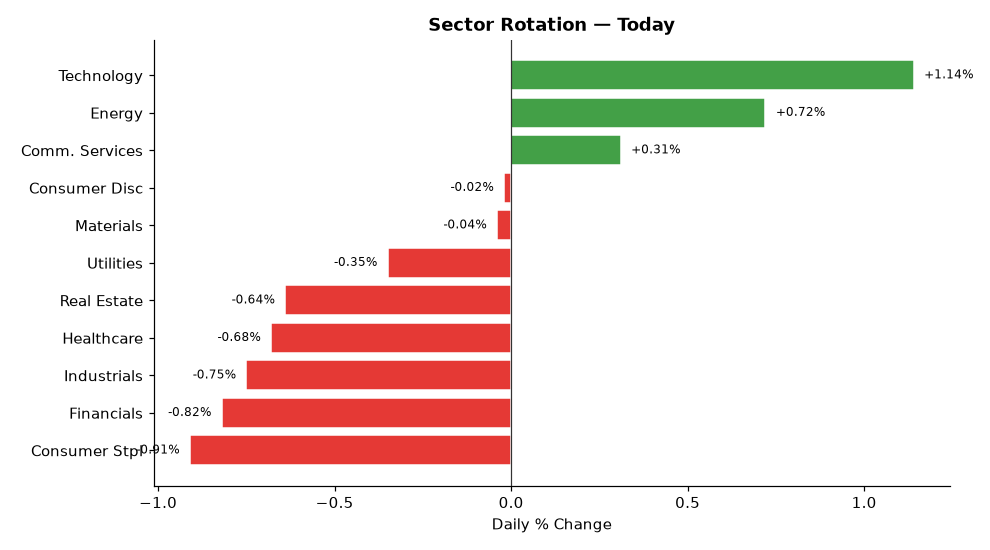
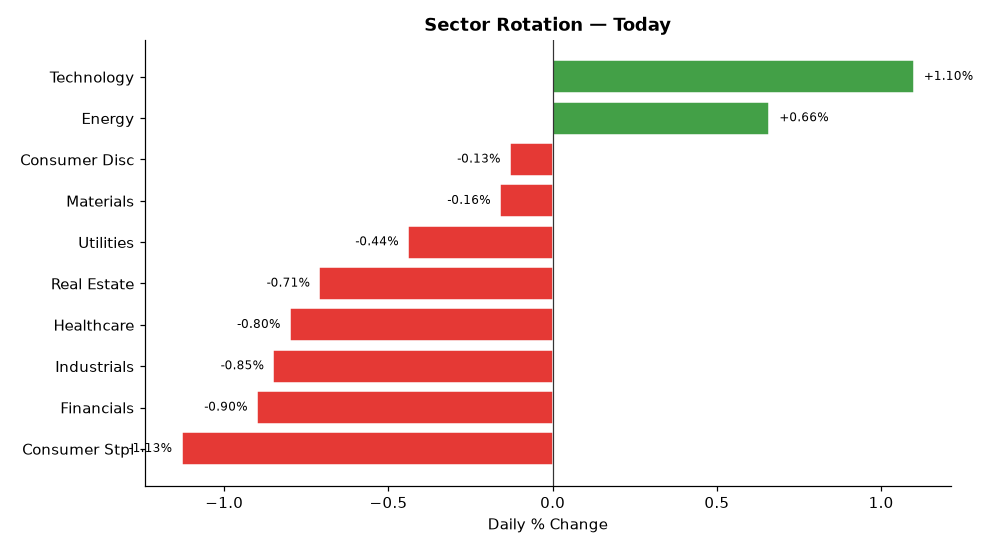
deploy: b7fadf5b06deb90e7ebb92f278722414bdd9750d

diff --git a/index.html b/index.html
@@ -4,7 +4,7 @@
   <meta charset="UTF-8">
   <meta name="viewport" content="width=device-width,initial-scale=1">
   <meta http-equiv="Cache-Control" content="no-cache,no-store,must-revalidate">
-  <title>Stock Breakout Screener — 2026-09-30 18:14</title>
+  <title>Stock Breakout Screener — 2026-09-30 18:29</title>
   <style>
     *{box-sizing:border-box;margin:0;padding:0}
     body{font-family:'Segoe UI',Arial,sans-serif;background:#f0f2f5;
@@ -34,7 +34,7 @@
 
 <div class="hdr">
   <h1>📈 Stock Breakout Screener</h1>
-  <p>Updated: 2026-09-30 18:14 UTC &nbsp;·&nbsp; Phase: Regular Market Hours &nbsp;·&nbsp;
+  <p>Updated: 2026-09-30 18:29 UTC &nbsp;·&nbsp; Phase: Regular Market Hours &nbsp;·&nbsp;
      129 stocks screened &nbsp;·&nbsp; Top 5 by conviction score</p>
 </div>
 
@@ -69,7 +69,7 @@
             </span>
           </div>
           <ul style="margin:0;padding-left:18px;font-size:13px;
-                     color:#333;line-height:1.8"><li style="margin:5px 0"><span style="background:#ffebee;color:#b71c1c;padding:2px 7px;border-radius:4px;font-size:11px;">❌</span> Volume: <b>0.3× average</b> — Above-average activity</li><li style="margin:5px 0"><span style="background:#ffebee;color:#b71c1c;padding:2px 7px;border-radius:4px;font-size:11px;">❌</span> Candle: close <b>$518.40</b> vs open <b>$510.80</b> (+1.5%) — regular market close</li><li style="margin:5px 0"><span style="background:#e8f5e9;color:#2e7d32;padding:2px 7px;border-radius:4px;font-size:11px;">✅</span> 200-Day MA: price <b>$518.40</b> vs MA <b>$432.09</b> — <b>✅ Above</b> long-term trend</li><li style="margin:5px 0"><span style="background:#e8f5e9;color:#2e7d32;padding:2px 7px;border-radius:4px;font-size:11px;">✅</span> Inst. ownership: <b>75.8%</b> · MFI: <b>64.1</b> · Market cap: <b>$3849.4B</b></li><li style="margin:5px 0"><span style="background:#e8f5e9;color:#2e7d32;padding:2px 7px;border-radius:4px;font-size:11px;">✅</span> Last similar breakout: <b>Jul 30, 2026</b> → <b>+10.1%</b> over 10 trading days</li></ul>
+                     color:#333;line-height:1.8"><li style="margin:5px 0"><span style="background:#ffebee;color:#b71c1c;padding:2px 7px;border-radius:4px;font-size:11px;">❌</span> Volume: <b>0.3× average</b> — Above-average activity</li><li style="margin:5px 0"><span style="background:#ffebee;color:#b71c1c;padding:2px 7px;border-radius:4px;font-size:11px;">❌</span> Candle: close <b>$518.34</b> vs open <b>$510.80</b> (+1.5%) — regular market close</li><li style="margin:5px 0"><span style="background:#e8f5e9;color:#2e7d32;padding:2px 7px;border-radius:4px;font-size:11px;">✅</span> 200-Day MA: price <b>$518.34</b> vs MA <b>$432.09</b> — <b>✅ Above</b> long-term trend</li><li style="margin:5px 0"><span style="background:#e8f5e9;color:#2e7d32;padding:2px 7px;border-radius:4px;font-size:11px;">✅</span> Inst. ownership: <b>75.8%</b> · MFI: <b>64.1</b> · Market cap: <b>$3848.4B</b></li><li style="margin:5px 0"><span style="background:#e8f5e9;color:#2e7d32;padding:2px 7px;border-radius:4px;font-size:11px;">✅</span> Last similar breakout: <b>Jul 30, 2026</b> → <b>+10.1%</b> over 10 trading days</li></ul>
         </div>
         <div style="background:#fff;border:1px solid #ddd;border-radius:10px;
                     padding:16px 20px;margin-bottom:12px;
@@ -86,7 +86,7 @@
             </span>
           </div>
           <ul style="margin:0;padding-left:18px;font-size:13px;
-                     color:#333;line-height:1.8"><li style="margin:5px 0"><span style="background:#ffebee;color:#b71c1c;padding:2px 7px;border-radius:4px;font-size:11px;">❌</span> Volume: <b>0.5× average</b> — Above-average activity</li><li style="margin:5px 0"><span style="background:#ffebee;color:#b71c1c;padding:2px 7px;border-radius:4px;font-size:11px;">❌</span> Candle: close <b>$336.64</b> vs open <b>$330.80</b> (+1.8%) — regular market close</li><li style="margin:5px 0"><span style="background:#e8f5e9;color:#2e7d32;padding:2px 7px;border-radius:4px;font-size:11px;">✅</span> 200-Day MA: price <b>$336.64</b> vs MA <b>$302.85</b> — <b>✅ Above</b> long-term trend</li><li style="margin:5px 0"><span style="background:#e8f5e9;color:#2e7d32;padding:2px 7px;border-radius:4px;font-size:11px;">✅</span> Inst. ownership: <b>66.3%</b> · MFI: <b>76.5</b> · Market cap: <b>$4913.0B</b></li></ul>
+                     color:#333;line-height:1.8"><li style="margin:5px 0"><span style="background:#ffebee;color:#b71c1c;padding:2px 7px;border-radius:4px;font-size:11px;">❌</span> Volume: <b>0.5× average</b> — Above-average activity</li><li style="margin:5px 0"><span style="background:#ffebee;color:#b71c1c;padding:2px 7px;border-radius:4px;font-size:11px;">❌</span> Candle: close <b>$336.35</b> vs open <b>$330.80</b> (+1.7%) — regular market close</li><li style="margin:5px 0"><span style="background:#e8f5e9;color:#2e7d32;padding:2px 7px;border-radius:4px;font-size:11px;">✅</span> 200-Day MA: price <b>$336.35</b> vs MA <b>$302.85</b> — <b>✅ Above</b> long-term trend</li><li style="margin:5px 0"><span style="background:#e8f5e9;color:#2e7d32;padding:2px 7px;border-radius:4px;font-size:11px;">✅</span> Inst. ownership: <b>66.3%</b> · MFI: <b>76.6</b> · Market cap: <b>$4908.9B</b></li></ul>
         </div>
         <div style="background:#fff;border:1px solid #ddd;border-radius:10px;
                     padding:16px 20px;margin-bottom:12px;
@@ -103,7 +103,7 @@
             </span>
           </div>
           <ul style="margin:0;padding-left:18px;font-size:13px;
-                     color:#333;line-height:1.8"><li style="margin:5px 0"><span style="background:#ffebee;color:#b71c1c;padding:2px 7px;border-radius:4px;font-size:11px;">❌</span> Volume: <b>0.4× average</b> — Above-average activity</li><li style="margin:5px 0"><span style="background:#ffebee;color:#b71c1c;padding:2px 7px;border-radius:4px;font-size:11px;">❌</span> Candle: close <b>$230.75</b> vs open <b>$229.00</b> (+0.8%) — regular market close</li><li style="margin:5px 0"><span style="background:#e8f5e9;color:#2e7d32;padding:2px 7px;border-radius:4px;font-size:11px;">✅</span> 200-Day MA: price <b>$230.75</b> vs MA <b>$209.17</b> — <b>✅ Above</b> long-term trend</li><li style="margin:5px 0"><span style="background:#e8f5e9;color:#2e7d32;padding:2px 7px;border-radius:4px;font-size:11px;">✅</span> Inst. ownership: <b>71.4%</b> · MFI: <b>72.6</b> · Market cap: <b>$5572.2B</b></li></ul>
+                     color:#333;line-height:1.8"><li style="margin:5px 0"><span style="background:#ffebee;color:#b71c1c;padding:2px 7px;border-radius:4px;font-size:11px;">❌</span> Volume: <b>0.4× average</b> — Above-average activity</li><li style="margin:5px 0"><span style="background:#ffebee;color:#b71c1c;padding:2px 7px;border-radius:4px;font-size:11px;">❌</span> Candle: close <b>$230.79</b> vs open <b>$229.00</b> (+0.8%) — regular market close</li><li style="margin:5px 0"><span style="background:#e8f5e9;color:#2e7d32;padding:2px 7px;border-radius:4px;font-size:11px;">✅</span> 200-Day MA: price <b>$230.79</b> vs MA <b>$209.17</b> — <b>✅ Above</b> long-term trend</li><li style="margin:5px 0"><span style="background:#e8f5e9;color:#2e7d32;padding:2px 7px;border-radius:4px;font-size:11px;">✅</span> Inst. ownership: <b>71.4%</b> · MFI: <b>72.6</b> · Market cap: <b>$5573.5B</b></li></ul>
         </div>
         <div style="background:#fff;border:1px solid #ddd;border-radius:10px;
                     padding:16px 20px;margin-bottom:12px;
@@ -120,7 +120,7 @@
             </span>
           </div>
           <ul style="margin:0;padding-left:18px;font-size:13px;
-                     color:#333;line-height:1.8"><li style="margin:5px 0"><span style="background:#ffebee;color:#b71c1c;padding:2px 7px;border-radius:4px;font-size:11px;">❌</span> Volume: <b>0.3× average</b> — Above-average activity</li><li style="margin:5px 0"><span style="background:#ffebee;color:#b71c1c;padding:2px 7px;border-radius:4px;font-size:11px;">❌</span> Candle: close <b>$608.20</b> vs open <b>$609.33</b> (-0.2%) — regular market close</li><li style="margin:5px 0"><span style="background:#e8f5e9;color:#2e7d32;padding:2px 7px;border-radius:4px;font-size:11px;">✅</span> 200-Day MA: price <b>$608.20</b> vs MA <b>$458.90</b> — <b>✅ Above</b> long-term trend</li><li style="margin:5px 0"><span style="background:#e8f5e9;color:#2e7d32;padding:2px 7px;border-radius:4px;font-size:11px;">✅</span> Inst. ownership: <b>75.4%</b> · MFI: <b>77.6</b> · Market cap: <b>$992.9B</b></li></ul>
+                     color:#333;line-height:1.8"><li style="margin:5px 0"><span style="background:#ffebee;color:#b71c1c;padding:2px 7px;border-radius:4px;font-size:11px;">❌</span> Volume: <b>0.3× average</b> — Above-average activity</li><li style="margin:5px 0"><span style="background:#ffebee;color:#b71c1c;padding:2px 7px;border-radius:4px;font-size:11px;">❌</span> Candle: close <b>$609.02</b> vs open <b>$609.33</b> (-0.1%) — regular market close</li><li style="margin:5px 0"><span style="background:#e8f5e9;color:#2e7d32;padding:2px 7px;border-radius:4px;font-size:11px;">✅</span> 200-Day MA: price <b>$609.02</b> vs MA <b>$458.91</b> — <b>✅ Above</b> long-term trend</li><li style="margin:5px 0"><span style="background:#e8f5e9;color:#2e7d32;padding:2px 7px;border-radius:4px;font-size:11px;">✅</span> Inst. ownership: <b>75.4%</b> · MFI: <b>77.5</b> · Market cap: <b>$994.4B</b></li></ul>
         </div>
         <div style="background:#fff;border:1px solid #ddd;border-radius:10px;
                     padding:16px 20px;margin-bottom:12px;
@@ -137,7 +137,7 @@
             </span>
           </div>
           <ul style="margin:0;padding-left:18px;font-size:13px;
-                     color:#333;line-height:1.8"><li style="margin:5px 0"><span style="background:#ffebee;color:#b71c1c;padding:2px 7px;border-radius:4px;font-size:11px;">❌</span> Volume: <b>0.5× average</b> — Above-average activity</li><li style="margin:5px 0"><span style="background:#ffebee;color:#b71c1c;padding:2px 7px;border-radius:4px;font-size:11px;">❌</span> Candle: close <b>$119.37</b> vs open <b>$116.05</b> (+2.9%) — regular market close</li><li style="margin:5px 0"><span style="background:#e8f5e9;color:#2e7d32;padding:2px 7px;border-radius:4px;font-size:11px;">✅</span> 200-Day MA: price <b>$119.37</b> vs MA <b>$100.64</b> — <b>✅ Above</b> long-term trend</li><li style="margin:5px 0"><span style="background:#e8f5e9;color:#2e7d32;padding:2px 7px;border-radius:4px;font-size:11px;">✅</span> Inst. ownership: <b>62.6%</b> · MFI: <b>68.9</b> · Market cap: <b>$631.1B</b></li></ul>
+                     color:#333;line-height:1.8"><li style="margin:5px 0"><span style="background:#ffebee;color:#b71c1c;padding:2px 7px;border-radius:4px;font-size:11px;">❌</span> Volume: <b>0.5× average</b> — Above-average activity</li><li style="margin:5px 0"><span style="background:#ffebee;color:#b71c1c;padding:2px 7px;border-radius:4px;font-size:11px;">❌</span> Candle: close <b>$119.36</b> vs open <b>$116.05</b> (+2.9%) — regular market close</li><li style="margin:5px 0"><span style="background:#e8f5e9;color:#2e7d32;padding:2px 7px;border-radius:4px;font-size:11px;">✅</span> 200-Day MA: price <b>$119.36</b> vs MA <b>$100.64</b> — <b>✅ Above</b> long-term trend</li><li style="margin:5px 0"><span style="background:#e8f5e9;color:#2e7d32;padding:2px 7px;border-radius:4px;font-size:11px;">✅</span> Inst. ownership: <b>62.6%</b> · MFI: <b>69.0</b> · Market cap: <b>$630.9B</b></li></ul>
         </div>
 
 
@@ -179,7 +179,7 @@
             64.1</td>
           <td style="background:#c8e6c9">Technology</td>
           <td style="background:#c8e6c9">
-            72.8%</td>
+            63.0%</td>
           <td style="background:#c8e6c9">
             +10.1%</td>
           <td style="font-weight:800;font-size:15px">13/17</td>
@@ -188,16 +188,16 @@
           <td style="font-weight:700;text-align:left;padding-left:10px">
             🟡 AAPL</td>
           <td style="background:#ffcdd2">0.5×</td>
-          <td style="background:#ffcdd2">+1.8%</td>
+          <td style="background:#ffcdd2">+1.7%</td>
           <td style="background:#c8e6c9">
             ▲ Above</td>
           <td style="background:#c8e6c9">
             66.3%</td>
           <td style="background:#c8e6c9">
-            76.5</td>
+            76.6</td>
           <td style="background:#c8e6c9">Technology</td>
           <td style="background:#c8e6c9">
-            87.5%</td>
+            84.5%</td>
           <td style="background:#ffcdd2">
             N/A</td>
           <td style="font-weight:800;font-size:15px">11/17</td>
@@ -215,7 +215,7 @@
             72.6</td>
           <td style="background:#c8e6c9">Technology</td>
           <td style="background:#c8e6c9">
-            138.0%</td>
+            131.8%</td>
           <td style="background:#ffcdd2">
             N/A</td>
           <td style="font-weight:800;font-size:15px">11/17</td>
@@ -224,16 +224,16 @@
           <td style="font-weight:700;text-align:left;padding-left:10px">
             🟡 AMD</td>
           <td style="background:#ffcdd2">0.3×</td>
-          <td style="background:#ffcdd2">-0.2%</td>
+          <td style="background:#ffcdd2">-0.1%</td>
           <td style="background:#c8e6c9">
             ▲ Above</td>
           <td style="background:#c8e6c9">
             75.4%</td>
           <td style="background:#c8e6c9">
-            77.6</td>
+            77.5</td>
           <td style="background:#c8e6c9">Technology</td>
           <td style="background:#c8e6c9">
-            83.3%</td>
+            69.9%</td>
           <td style="background:#ffcdd2">
             N/A</td>
           <td style="font-weight:800;font-size:15px">11/17</td>
@@ -248,10 +248,10 @@
           <td style="background:#c8e6c9">
             62.6%</td>
           <td style="background:#c8e6c9">
-            68.9</td>
+            69.0</td>
           <td style="background:#c8e6c9">Technology</td>
           <td style="background:#c8e6c9">
-            194.0%</td>
+            173.3%</td>
           <td style="background:#ffcdd2">
             N/A</td>
           <td style="font-weight:800;font-size:15px">11/17</td>
@@ -278,57 +278,57 @@
         <tr>
           <td style="text-align:left;padding-left:10px;font-weight:600">
             #1 Technology</td>
-          <td style="background:#e8f5e9;color:#2e7d32;font-weight:700">+1.14%</td>
+          <td style="background:#e8f5e9;color:#2e7d32;font-weight:700">+1.10%</td>
         </tr>
         <tr>
           <td style="text-align:left;padding-left:10px;font-weight:600">
             #2 Energy</td>
-          <td style="background:#e8f5e9;color:#2e7d32;font-weight:700">+0.72%</td>
+          <td style="background:#e8f5e9;color:#2e7d32;font-weight:700">+0.66%</td>
         </tr>
         <tr>
           <td style="text-align:left;padding-left:10px;font-weight:600">
-            #3 Comm. Services</td>
-          <td style="background:#e8f5e9;color:#2e7d32;font-weight:700">+0.31%</td>
+            #3 Consumer Disc</td>
+          <td style="background:#ffebee;color:#c62828;font-weight:700">-0.13%</td>
         </tr>
         <tr>
           <td style="text-align:left;padding-left:10px;font-weight:600">
-            #4 Consumer Disc</td>
-          <td style="background:#ffebee;color:#c62828;font-weight:700">-0.02%</td>
+            #4 Materials</td>
+          <td style="background:#ffebee;color:#c62828;font-weight:700">-0.16%</td>
         </tr>
         <tr>
           <td style="text-align:left;padding-left:10px;font-weight:600">
-            #5 Materials</td>
-          <td style="background:#ffebee;color:#c62828;font-weight:700">-0.04%</td>
+            #5 Utilities</td>
+          <td style="background:#ffebee;color:#c62828;font-weight:700">-0.44%</td>
         </tr>
         <tr>
           <td style="text-align:left;padding-left:10px;font-weight:600">
-            #6 Utilities</td>
-          <td style="background:#ffebee;color:#c62828;font-weight:700">-0.35%</td>
+            #6 Real Estate</td>
+          <td style="background:#ffebee;color:#c62828;font-weight:700">-0.71%</td>
         </tr>
         <tr>
           <td style="text-align:left;padding-left:10px;font-weight:600">
-            #7 Real Estate</td>
-          <td style="background:#ffebee;color:#c62828;font-weight:700">-0.64%</td>
+            #7 Healthcare</td>
+          <td style="background:#ffebee;color:#c62828;font-weight:700">-0.80%</td>
         </tr>
         <tr>
           <td style="text-align:left;padding-left:10px;font-weight:600">
-            #8 Healthcare</td>
-          <td style="background:#ffebee;color:#c62828;font-weight:700">-0.68%</td>
+            #8 Industrials</td>
+          <td style="background:#ffebee;color:#c62828;font-weight:700">-0.85%</td>
         </tr>
         <tr>
           <td style="text-align:left;padding-left:10px;font-weight:600">
-            #9 Industrials</td>
-          <td style="background:#ffebee;color:#c62828;font-weight:700">-0.75%</td>
+            #9 Financials</td>
+          <td style="background:#ffebee;color:#c62828;font-weight:700">-0.90%</td>
         </tr>
         <tr>
           <td style="text-align:left;padding-left:10px;font-weight:600">
-            #10 Financials</td>
-          <td style="background:#ffebee;color:#c62828;font-weight:700">-0.82%</td>
+            #10 Consumer Stpl</td>
+          <td style="background:#ffebee;color:#c62828;font-weight:700">-1.13%</td>
         </tr>
         <tr>
           <td style="text-align:left;padding-left:10px;font-weight:600">
-            #11 Consumer Stpl</td>
-          <td style="background:#ffebee;color:#c62828;font-weight:700">-0.91%</td>
+            #11 Comm. Services</td>
+          <td style="background:#ffebee;color:#c62828;font-weight:700">+nan%</td>
         </tr>
     </table>
   </div>
@@ -367,7 +367,7 @@
         <li><b>Scoring weights:</b>
             Inst.Own(3) · Sector(3) · Volume(2) · Breakout(2) ·
             MA200(2) · MFI(2) · History(2) · IV(1) = 17pts max</li>
-        <li><b>Run time:</b> 2026-09-30 18:14 UTC — Market phase: Regular Market Hours</li>
+        <li><b>Run time:</b> 2026-09-30 18:29 UTC — Market phase: Regular Market Hours</li>
       </ul>
     </div>
 
